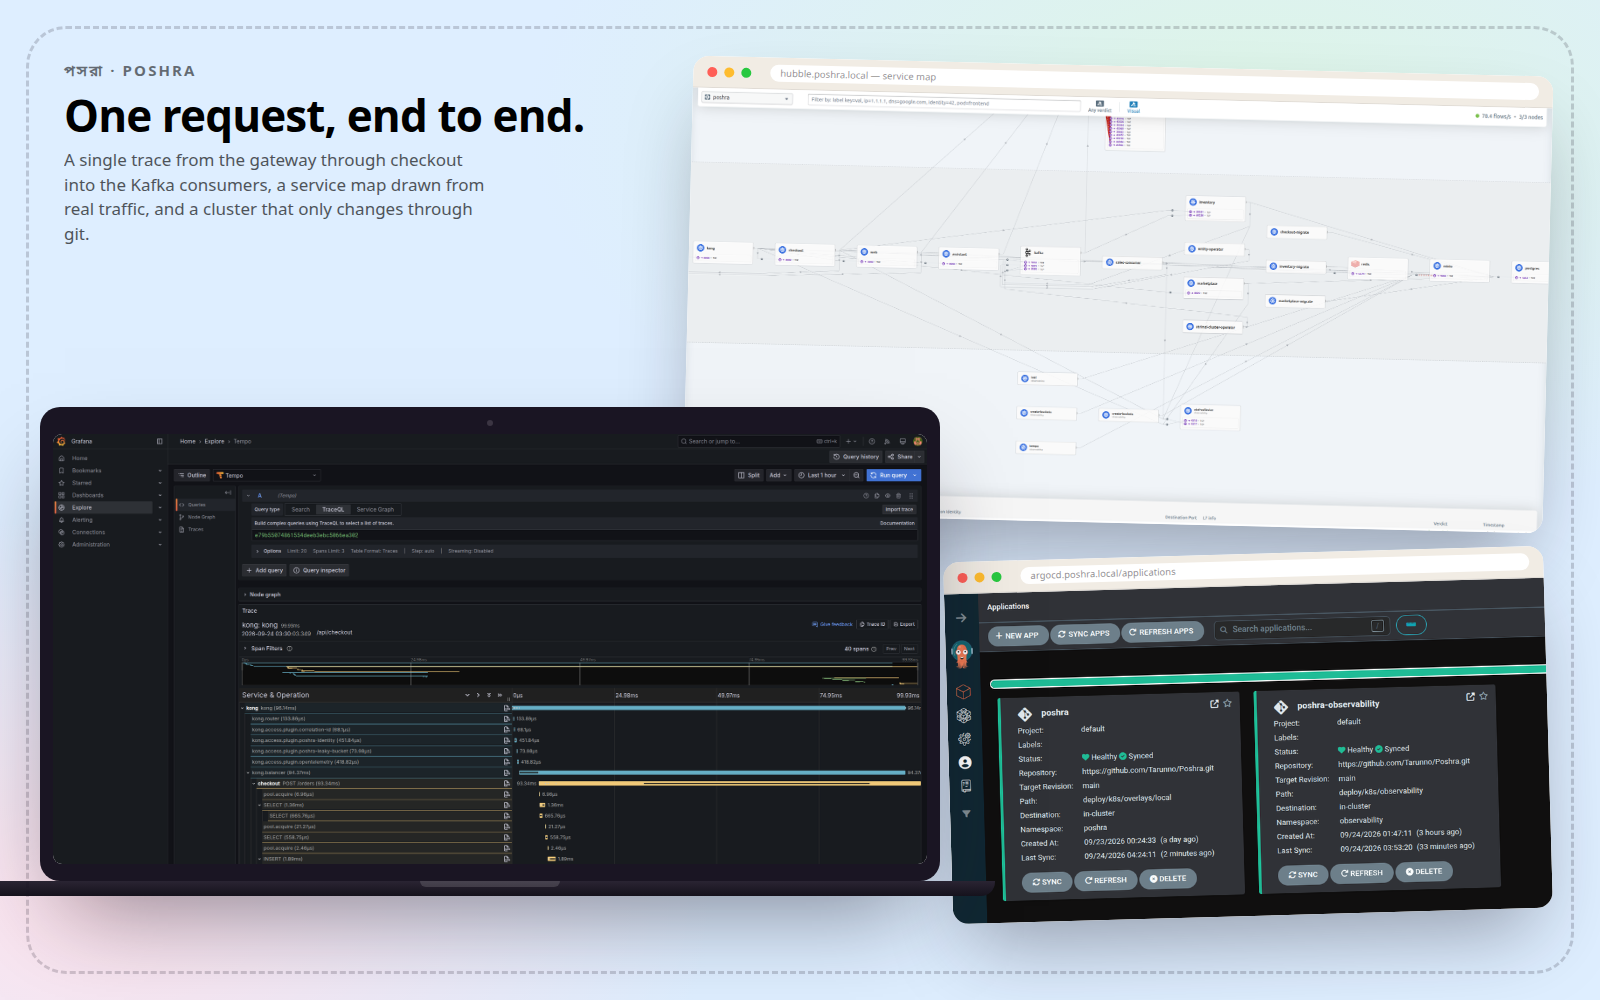
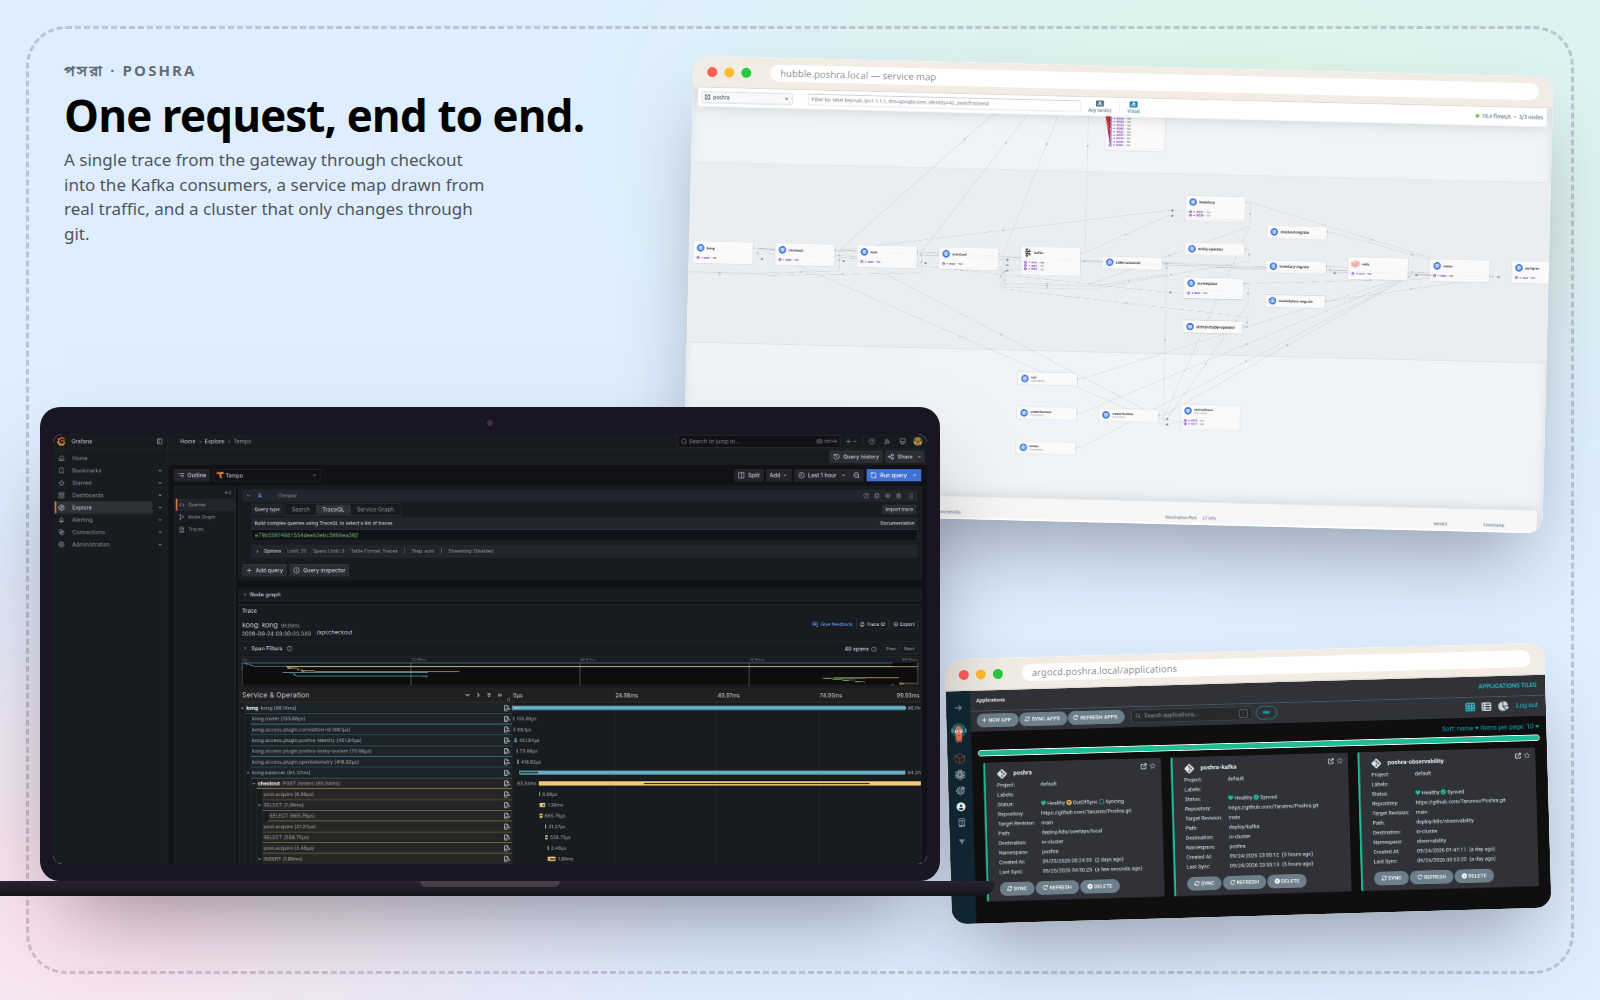
docs: Argo CD now has three applications to show
Kafka was the last thing in the cluster applied by hand; it has its own
Application now, so the cover says so.

The crop is recomputed rather than reused: the new capture is 1492px wide
against the old 2000, and the same scaling would have zoomed into the first
card instead of fitting three.

Changed region(s): [[0.5625, 0.527, 0.9688, 0.93]]

diff --git a/docs/assets/cover-observability.html b/docs/assets/cover-observability.html
@@ -6,10 +6,10 @@
   .laptop { left:40px; bottom:104px; width:900px; }
   .laptop .base { width:1010px; margin-left:-55px; }
   .b1 { top:66px; right:52px; width:860px; transform:rotate(1.4deg); }
-  /* argo: the 900x495 corner of a 2000x985 capture — the rest of that page is empty */
+  /* argo: the top 580px of a 1492x738 capture — below the cards is empty page */
   .b2 { bottom:84px; right:52px; width:600px; transform:rotate(-1.6deg); }
-  .b2 .crop { height:330px; }
-  .b2 .crop img { width:1333px; left:0; top:0; }
+  .b2 .crop { height:233px; }
+  .b2 .crop img { width:600px; left:0; top:0; }
 </style></head><body>
   <div class="label">
     <div class="eyebrow">পসরা · Poshra</div>
